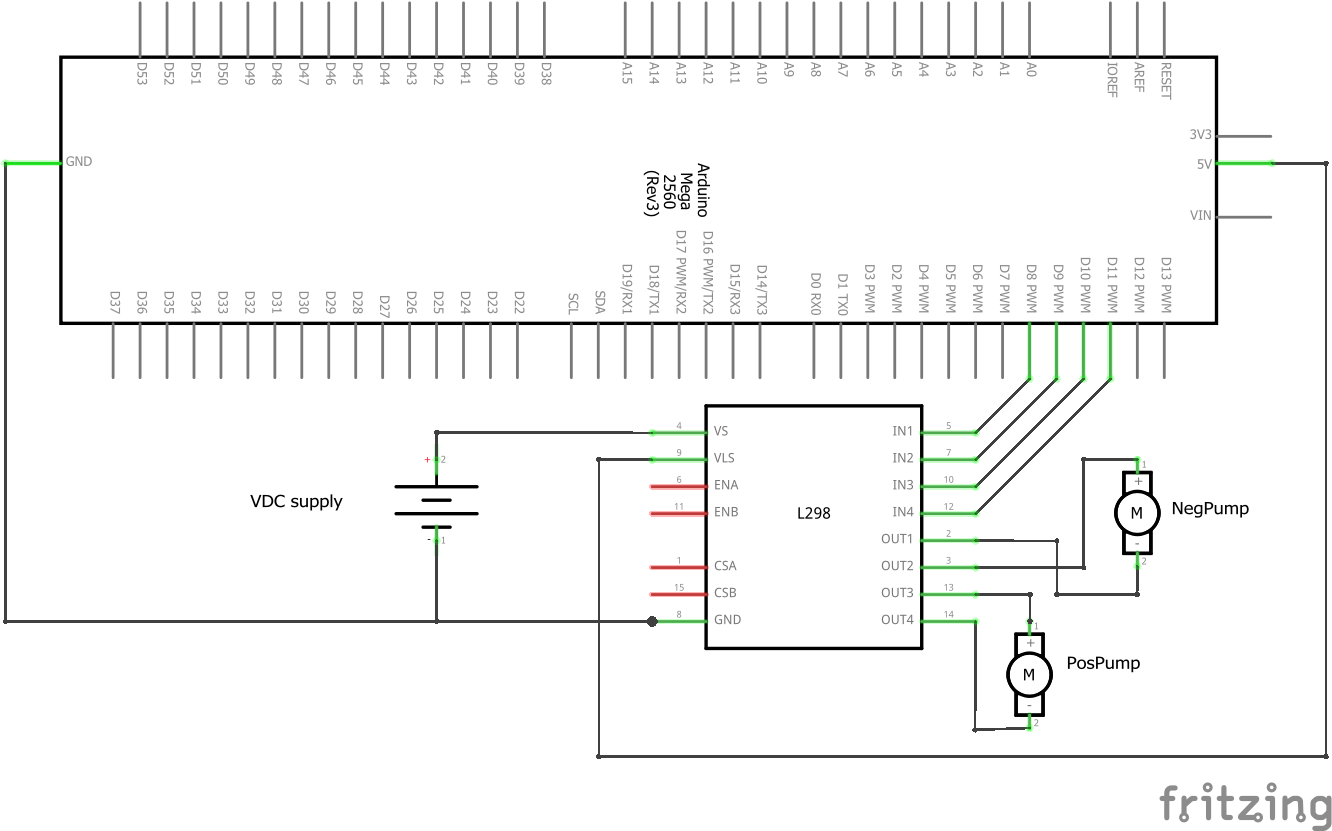
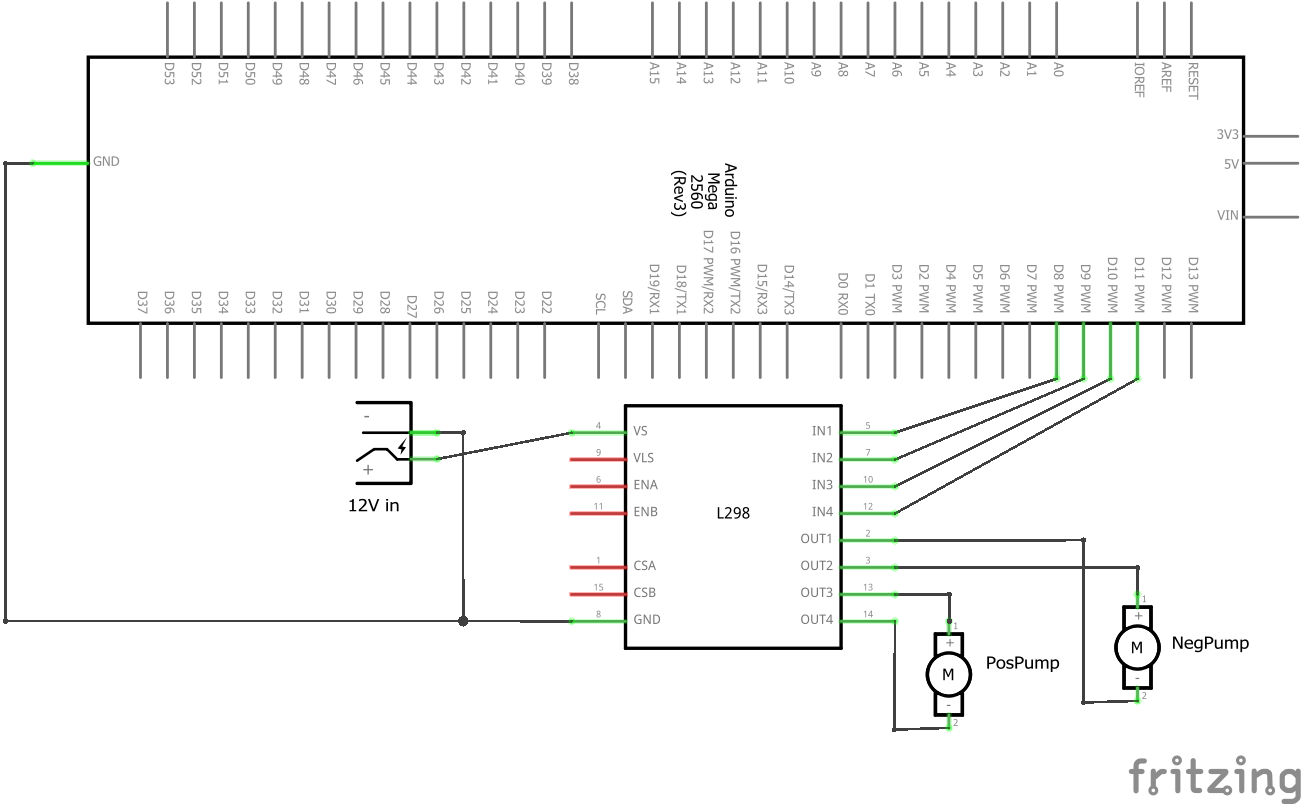
add updated pump test circuit diagram & description of valve test

Changed region(s): [[0.0, 0.0, 1.0, 1.0]]

diff --git a/documentation/code_tests.md b/documentation/code_tests.md
@@ -19,7 +19,7 @@ The table below lists test sketches in recommended execution order, starting fro
 This stage of testing verifies that an assembled pump control circuit correctly actuates pumps based on supplied pump ID, state (on/off), and power level.
 
 > [!CAUTION]
-> Before using this code, ensure that the pump circuit is correct. Pumps can be proxied with standard DC motors provided that the voltage supply levels for the motors are respected (i.e., if using a 5V motor as a proxy for a 12V pump, ensure that input power is limited to 5V). Ensure that the motor power is not supplied by the microcontroller and that there is protective circuitry (e.g., a motor driver board, or an H-bridge circuit with protective components like diodes) between the pump/motor and the microcontroller to protect the microcontroller.
+> Before using this code, ensure that the pump circuit is correct. Pumps can be proxied with standard DC motors provided that the voltage supply levels for the motors are respected (i.e., if using a 5V motor as a proxy for a 12V pump, ensure that input power is limited to 5V). Ensure that the motor power is not supplied by the microcontroller and that there is protective circuitry (e.g., a motor driver board, or an H-bridge circuit with protective components like diodes) between the pump/motor and the microcontroller.
 
 A sample motor circuit using the L298N motor driver is shown in the image below.
 
@@ -41,3 +41,28 @@ At this stage, the code can be uploaded to the Arduino. You should see the posit
 
 > [!TIP]
 > Since it is difficult to tell whether the pumps are turning in the correct directions given their corresponding input channel (i.e., positive pump should move air into the reservoir and negative pump should move air out), it's best to also try the `test_pump_control` test once the pressure sensors have been integrated and are functional.
+
+### Valve opening testing
+This stage of testing verifies that an assembled valve circuit with 3 input valves and 8 output valves can open all valves in order.
+
+> [!CAUTION]
+> Before using this code, ensure that the valve circuit is correct. The solenoid valves in this circuit can be proxied with standard solenoids that operate at 5V. Ensure that the valve power is not supplied by the microcontroller and that there is protective circuitry (e.g., a transistor circuit with protective components like diodes) between the valve and the microcontroller.
+
+The PCB layout for the 3 input valves is shown in the image below. This tester code assumes that the 3-input valve board is used to control input valves and two 4-input valve boards are used to control output valves.
+
+> [!NOTE]
+> This PCB layout appears to have labelled the 5V and GND connections incorrectly (swapping their labels) so interpret it carefully with this mistake in mind to correctly identify connections.
+
+![ValveCircuit](..\figs\3_valve_board_image.png).
+
+The following **setup** variables must be set or checked:
+ - input valve pins: set the pin numbers for the three Arduino pins used to drive the input valves. The pins used are [53, 52, 51], corresponding to the positive, negative, and neutral valves respectively.
+ - output valve pins: set the pin numbers for the three Arduino pins used to drive the input valves. The pins used are [47,46,45,44,31,30,29,28], corresponding to the valves for output channels 0 to 7 in order.
+
+At this stage, the code can be uploaded to the Arduino. For each valve, the microcontroller will set the corresponding pin to logic high, whereupon the valve should open.
+
+> [!TIP]
+> If the PCBs are not available, transistor circuits can be constructed to switch valve state (see this Sparkfun tutorial for a good explanation ![SparkFunTransistorSwitch](https://learn.sparkfun.com/tutorials/transistors/applications-i-switches)). Alternatively, if you wish to quickly check whether the valves open but do not need to open them in order, you can skip the microcontroller connection entirely and simply apply 5V to the leads of a valve directly.
+
+### Pressure sensing testing
+This stage of testing verifies that an assembled pressure sensor circuit correctly reads and calibrates sensor values. Calibration is checked by taking pressure sensor readings for each channel with the channel valve open to atmospheric pressure. Since the pressure in the channel should be equalized to environmental conditions when the channel is open to the atmosphere, the pressure reading should hence be equal to approximately 0.
